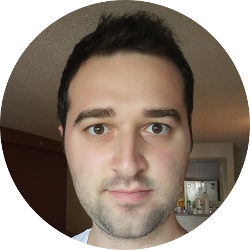
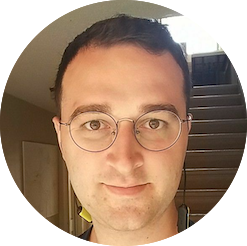
updated front page picture to 2016, added Eric, Kegan, and Connie, updated Baskin

diff --git a/group.html b/group.html
@@ -109,23 +109,6 @@
             </div>
             <div class="col-md-4 text-center">
                 <div class="thumbnail">
-                    <img class="img-responsive" src="images/wolfgang.png" alt="">
-                    <div class="caption">
-                        <h3>Wolfgang Hönig<br>
-                            <small>Ph.D. Student</small>
-                        </h3>
-                        <ul class="list-inline">
-                            <li><a href="https://de.linkedin.com/in/wolfgang-hönig-71385599/en"><i class="fa fa-2x fa-linkedin-square"></i></a></li>
-                            <li><a href="https://github.com/whoenig/"><i class="fa fa-2x fa-github"></i></a></li>
-                        </ul>
-                        <p>
-                        &nbsp;
-                        </p>
-                    </div>
-                </div>
-            </div>
-            <div class="col-md-4 text-center">
-                <div class="thumbnail">
                     <img class="img-responsive" src="images/elizabeth.png" alt="">
                     <div class="caption">
                         <h3>Elizabeth Boroson<br>
@@ -158,13 +141,13 @@
             </div>
             <div class="col-md-4 text-center">
                 <div class="thumbnail">
-                    <img class="img-responsive" src="images/baskin.png" alt="">
+                    <img class="img-responsive" src="images/eric.png" alt="">
                     <div class="caption">
-                        <h3>Baskin B. Senbaslar<br>
-                            <small>M.S. Student</small>
+                        <h3>Eric Ewing<br>
+                            <small>Ph.D. Student</small>
                         </h3>
                         <ul class="list-inline">
-                            <li><a href="https://www.linkedin.com/in/baskinburak/"><i class="fa fa-2x fa-linkedin-square"></i></a></li>
+                            <li><a href="https://scholar.google.com/citations?hl=en&user=jT4s3cIAAAAJ"><i class="fa fa-2x fa-globe"></i></a></li>
                         </ul>
                         <p>
                         &nbsp;
@@ -172,6 +155,56 @@
                     </div>
                 </div>
             </div>
+            <div class="col-md-4 text-center">
+                <div class="thumbnail">
+                    <img class="img-responsive" src="images/baskin.png" alt="">
+                    <div class="caption">
+                        <h3>Baskin B. Senbaslar<br>
+                            <small>Ph.D. Student</small>
+                        </h3>
+                        <ul class="list-inline">
+                            <li><a href="https://www.linkedin.com/in/baskinburak/"><i class="fa fa-2x fa-linkedin-square"></i></a></li>
+                            <li><a href="https://github.com/baskinburak/"><i class="fa fa-2x fa-github"></i></a></li>
+                        </ul>
+                        <p>
+                        &nbsp;
+                        </p>
+                    </div>
+                </div>
+            </div>
+            <div class="col-md-4 text-center">
+                <div class="thumbnail">
+                    <img class="img-responsive" src="images/kegan.png" alt="">
+                    <div class="caption">
+                        <h3>Kegan Strawn<br>
+                            <small>Ph.D. Student</small>
+                        </h3>
+                        <ul class="list-inline">
+                        	<li><a href="https://sites.google.com/view/kegan-strawn"><i class="fa fa-2x fa-globe"></i></a></li>
+                            <li><a href="https://www.linkedin.com/in/kegan-strawn-9599a2b3"><i class="fa fa-2x fa-linkedin-square"></i></a></li>
+                        </ul>
+                        <p>
+                        &nbsp;
+                        </p>
+                    </div>
+                </div>
+            </div>
+            <div class="col-md-4 text-center">
+                <div class="thumbnail">
+                	<!-- <img class="img-responsive" src="images/connie.png" alt=""> -->
+                    <div class="caption">
+                        <h3>Connie Zhang<br>
+                            <small>Ph.D. Student</small>
+                        </h3>
+                        <ul class="list-inline">
+                        	<li><i class="fa fa-2x fa-globe"></i></a></li>
+                        </ul>
+                        <p>
+                        &nbsp;
+                        </p>
+                    </div>
+                </div>
+            </div> 
             <div class="col-md-4 text-center">
                 <div class="thumbnail">
                     <img class="img-responsive" src="images/roshan.png" alt="">
@@ -245,7 +278,11 @@
         <div class="row">
             <div class="col-lg-12">
                 <h2>Former Lab Members</h2><br>
-                    <ul>
+                    <ul>        	
+                        <li>Wolfgang Hönig, Graduate Research Assistant<br>
+                            <a href="https://de.linkedin.com/in/wolfgang-hönig-71385599/en"><i class="fa fa-2x fa-linkedin-square"></i></a>
+                            <a href="https://github.com/whoenig/"><i class="fa fa-2x fa-github"></i></a>
+                        </li>
                         <li>Mark Debord, Master's Student Researcher<br>
                             <a href="https://github.com/mjdebord"><i class="fa fa-2x fa-github"></i></a>
                         </li>

diff --git a/index.html b/index.html
@@ -138,7 +138,7 @@
         <ol class="carousel-indicators">
             <li data-target="#myCarousel" data-slide-to="0" class="active"></li>
             <li data-target="#myCarousel" data-slide-to="1"></li>
-            <li data-target="#myCarousel" data-slide-to="2"></li>
+            <!--li data-target="#myCarousel" data-slide-to="2"></li-->
             <!--li data-target="#myCarousel" data-slide-to="3"></li-->
         </ol>
 
@@ -156,12 +156,12 @@
                     <!--h2>Caption 2</h2-->
                 </div>
             </div>
-            <div class="item">
+            <!--div class="item">
                 <div class="fill" style="background-image:url('images/act_cover_3.jpg');"></div>
-                <div class="carousel-caption">
+                <div class="carousel-caption"-->
                     <!--h2>Caption 3</h2-->
-                </div>
-            </div>
+                <!--/div>
+            </div-->
         </div>
 
         <!-- Controls -->
